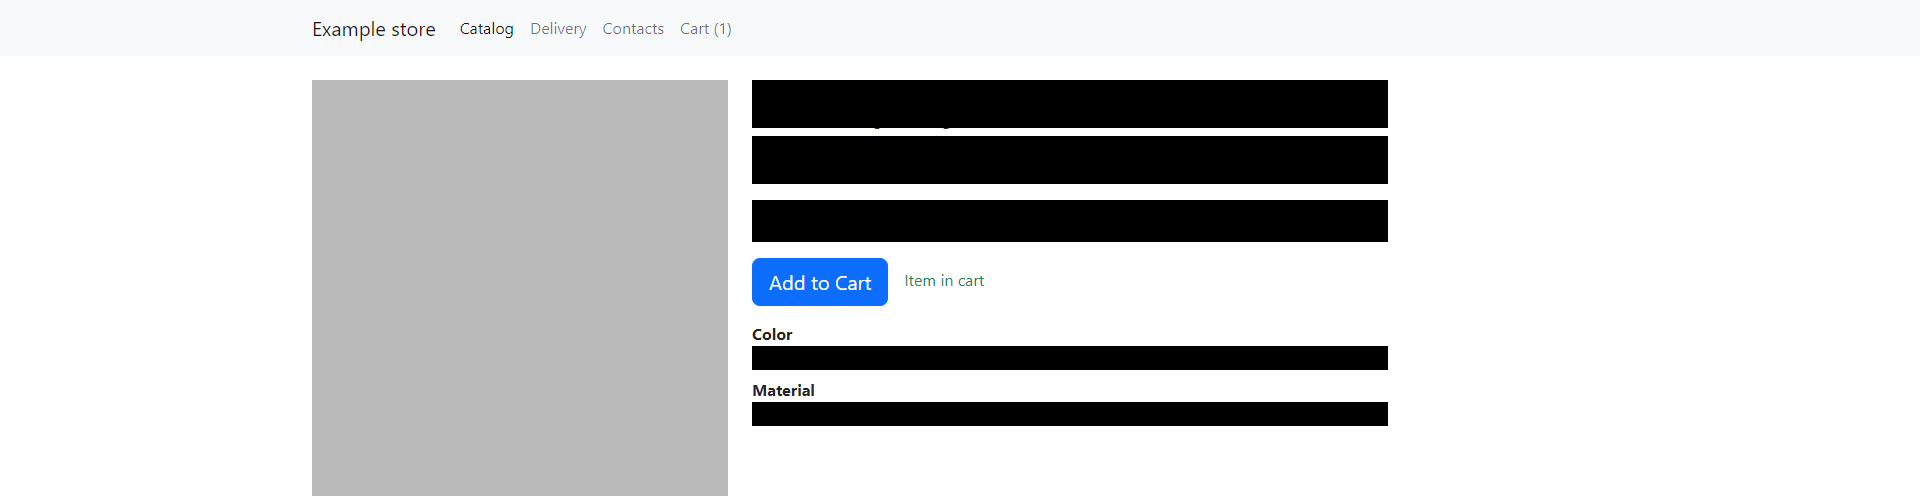
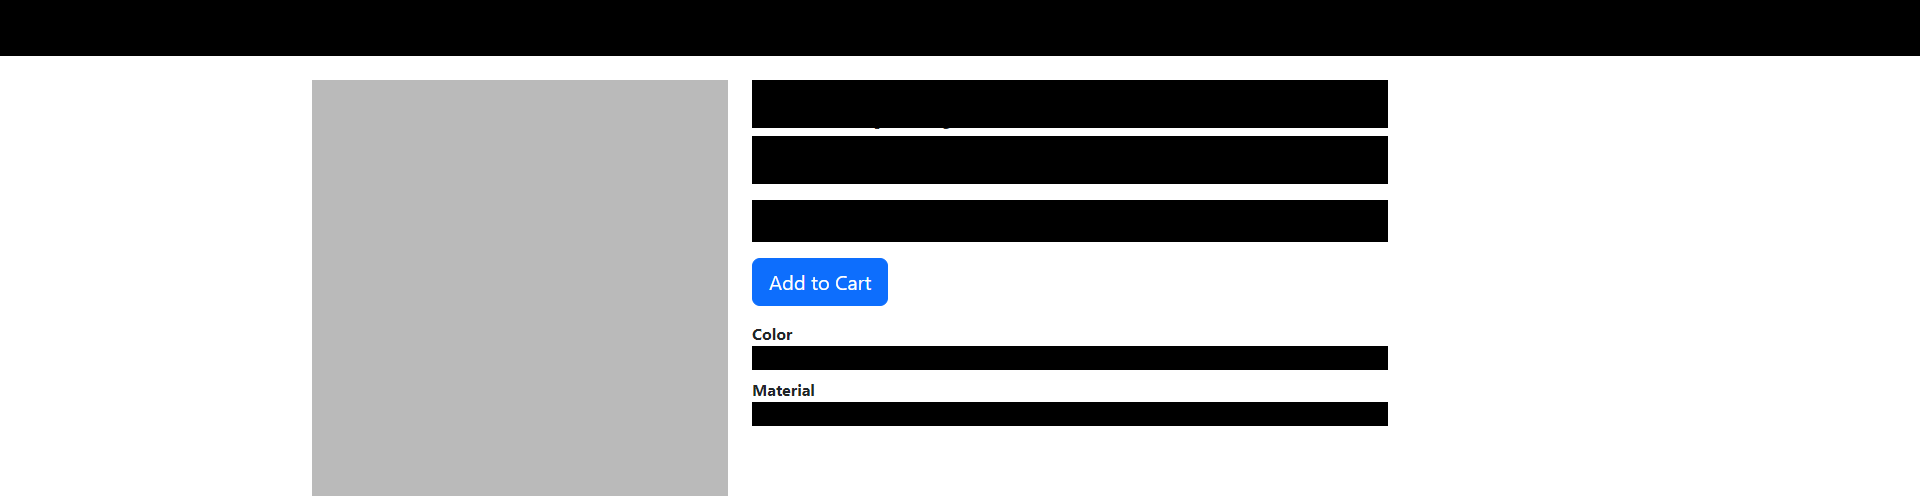
fix test

Changed region(s): [[0.0, 0.0, 1.0, 0.121], [0.4688, 0.5444, 0.5312, 0.5746]]

diff --git a/test/hermione/kostili.hermione.js b/test/hermione/kostili.hermione.js
@@ -80,6 +80,8 @@ describe("Дополнительные костыльные проверки", a
         ".ProductDetails-Color",
         ".ProductDetails-Price",
         ".ProductDetails-Material",
+        ".navbar",
+        ".CartBadge",
       ],
       compositeImage: true,
     });
